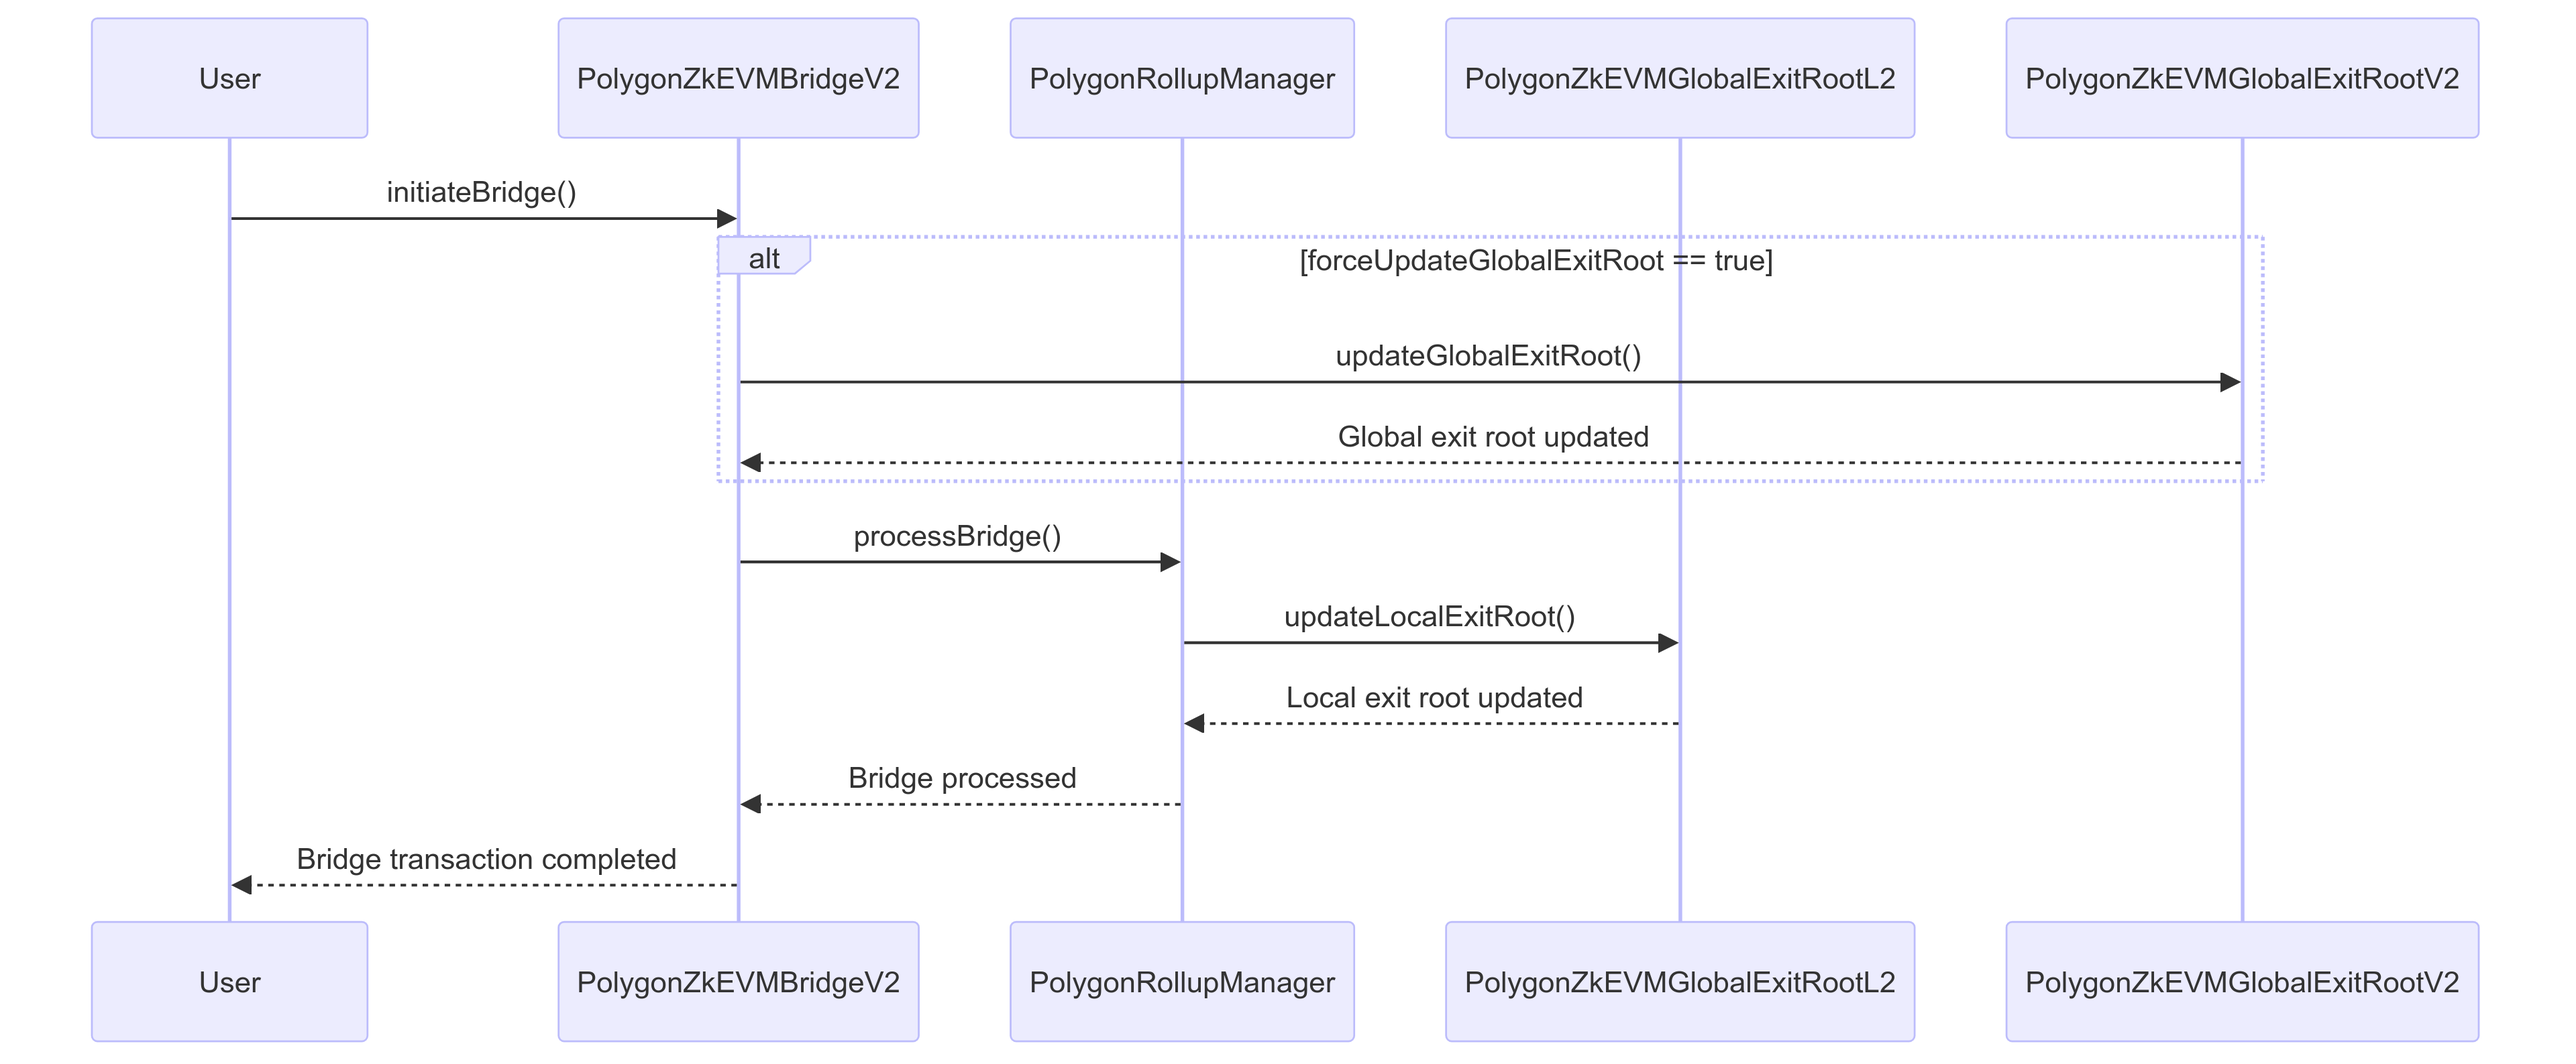
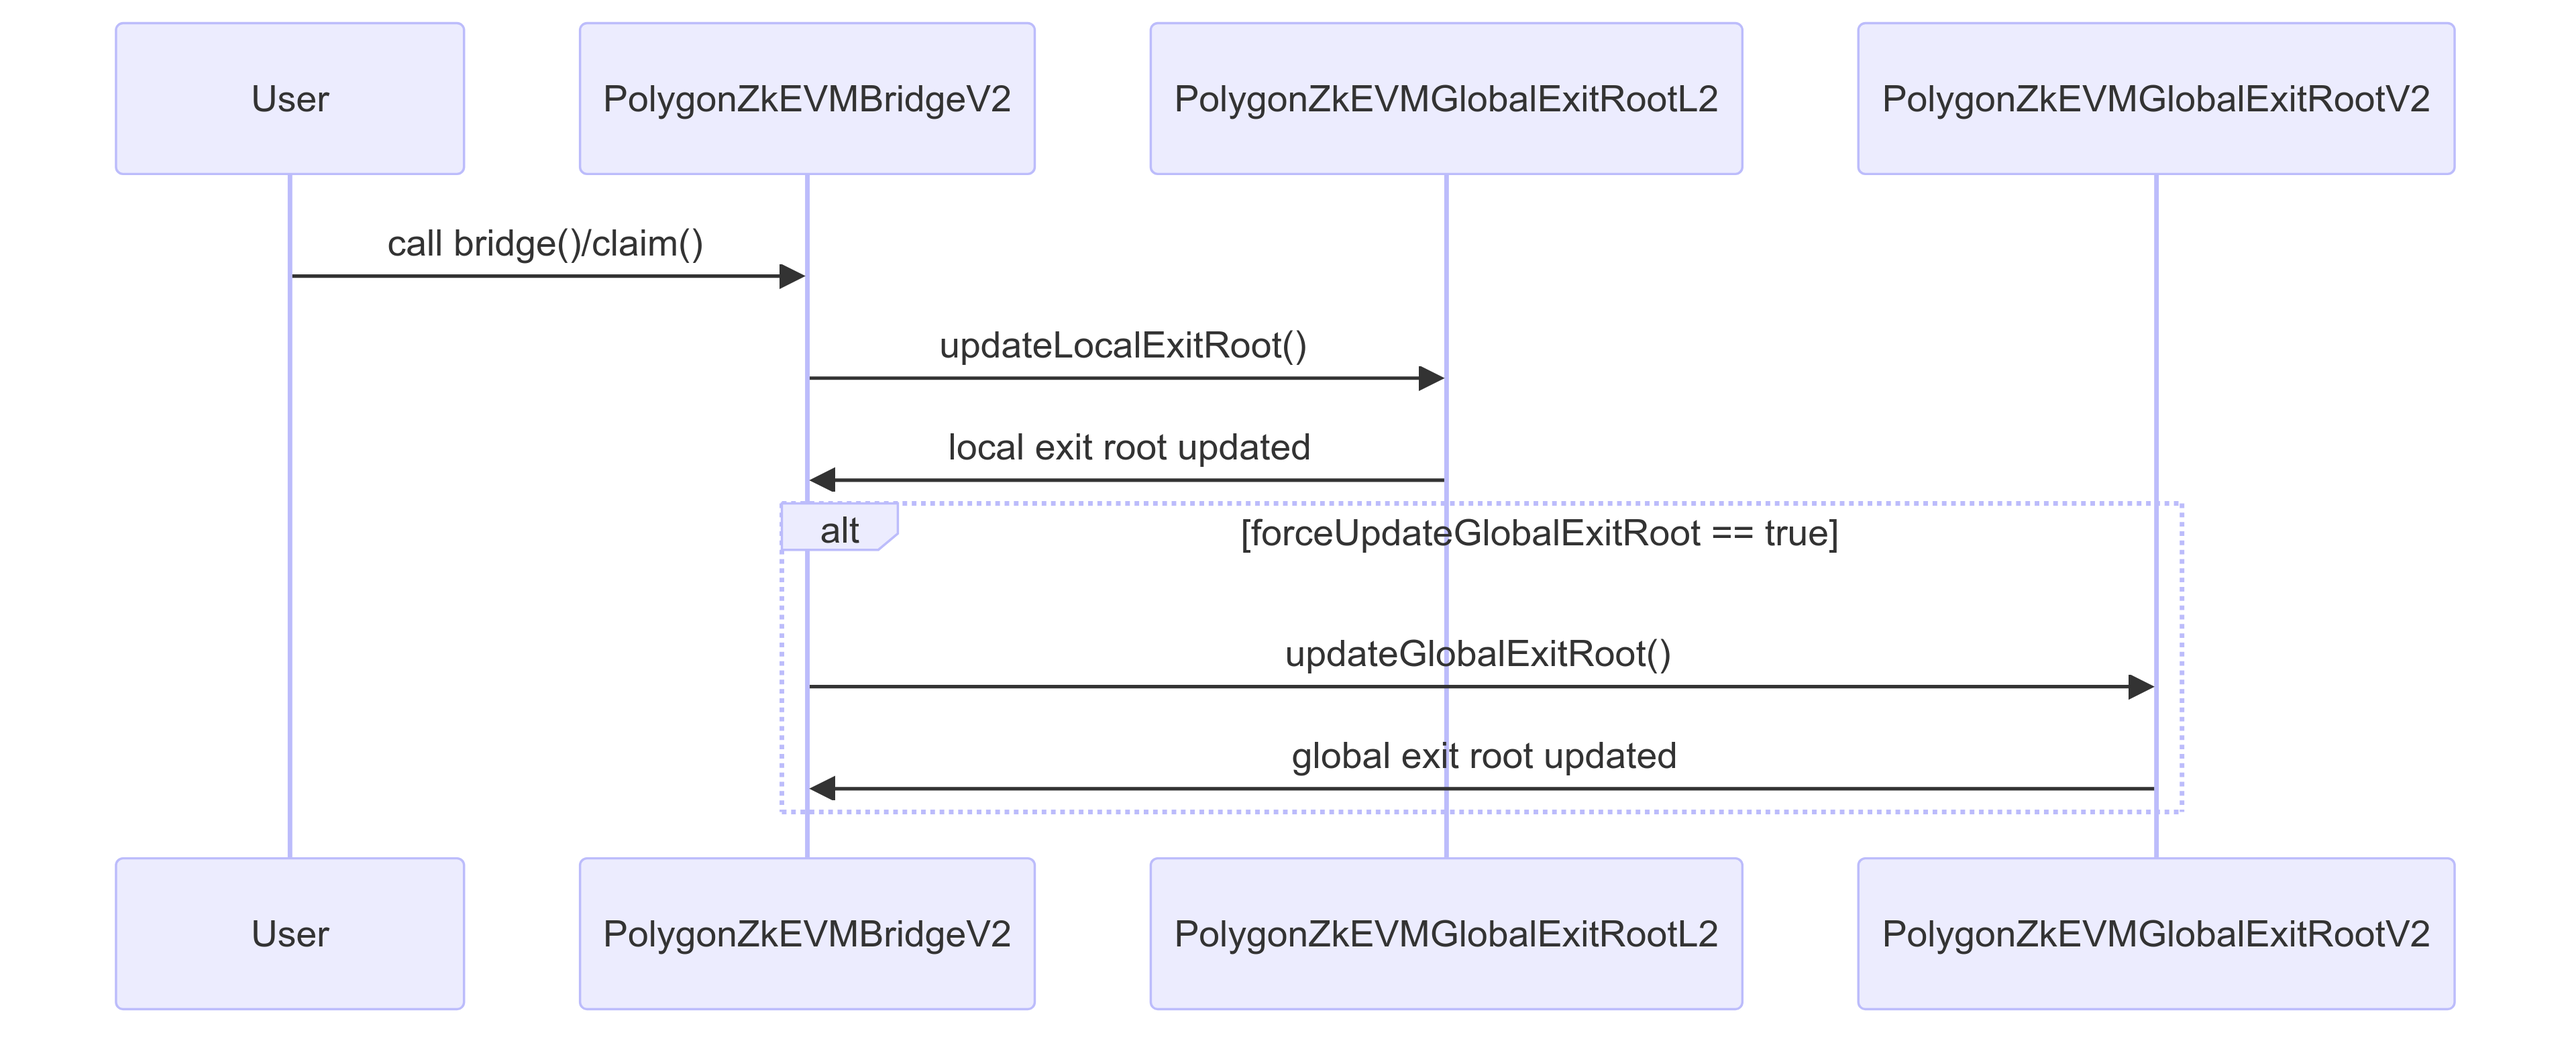
update bridging exit root sequence

diff --git a/docs/zkEVM/architecture/high-level/smart-contracts/exit-roots.md b/docs/zkEVM/architecture/high-level/smart-contracts/exit-roots.md
@@ -39,14 +39,10 @@ When bridging, the global exit root is updated if the [`forceUpdateGlobalExitRoo
 
 ![Update exit roots via bridging flow](../../../../img/cdk/high-level-architecture/update-exit-roots-via-bridging.png)
 
-1. User initiates a bridging transaction by interacting with the `PolygonZkEVMBridgeV2` contract.
-2. The `PolygonZkEVMBridgeV2` contract handles the bridging request and forwards it to the `PolygonRollupManager`.
-3. The `PolygonRollupManager` updates the local exit root in the `PolygonZkEVMGlobalExitRootL2` contract.
-4. The `PolygonZkEVMGlobalExitRootL2` contract confirms that the local exit root has been updated and notifies the `PolygonRollupManager`.
-5. The `PolygonRollupManager` then updates the global exit root in the `PolygonZkEVMGlobalExitRootV2` contract.
-6. The `PolygonZkEVMGlobalExitRootV2` contract confirms that the global exit root has been updated and notifies the `PolygonRollupManager`.
-7. The `PolygonRollupManager` completes the bridging process and notifies the `PolygonZkEVMBridgeV2`.
-8. The `PolygonZkEVMBridgeV2` informs the iuser that the bridging transaction is completed.
+1. The user interacts with the `PolygonZkEVMBridgeV2` contract by calling the `bridge()` and `claim()` functions.
+2. For both bridge() and claim():
+    `PolygonZkEVMBridgeV2` calls `updateLocalExitRoot()` on `PolygonZkEVMGlobalExitRootL2`, which updates the local exit root.
+3. If `forceUpdateGlobalExitRoot` is set to true, `PolygonZkEVMBridgeV2` calls `updateGlobalExitRoot()` on `PolygonZkEVMGlobalExitRootV2`, which updates the global exit root.
 
 ## Rollup local exit trees
 

diff --git a/docs/zkEVM/architecture/high-level/smart-contracts/bridging.md b/docs/zkEVM/architecture/high-level/smart-contracts/bridging.md
@@ -1,4 +1,4 @@
-The unified bridge transfers assets and messages between networks (L1, L2) by calling bridge and claim functions on the [PolygonZkEVMBridgeV2.sol](https://github.com/0xPolygonHermez/zkevm-contracts/blob/main/contracts/v2/PolygonZkEVMBridgeV2.sol) contract which is an upgradeable proxy.
+The unified bridge transfers assets and messages between networks (L1, L2) by calling bridge and claim functions on the [PolygonZkEVMBridgeV2.sol](https://github.com/0xPolygonHermez/zkevm-contracts/blob/main/contracts/v2/PolygonZkEVMBridgeV2.sol) contract which can act as an upgradeable proxy via the library imports.
 
 This contract is deployed on L1 and there is also one deployed on every L2 network. It communicates closely with an exit root manager contract specific to L1 or L2.
 
